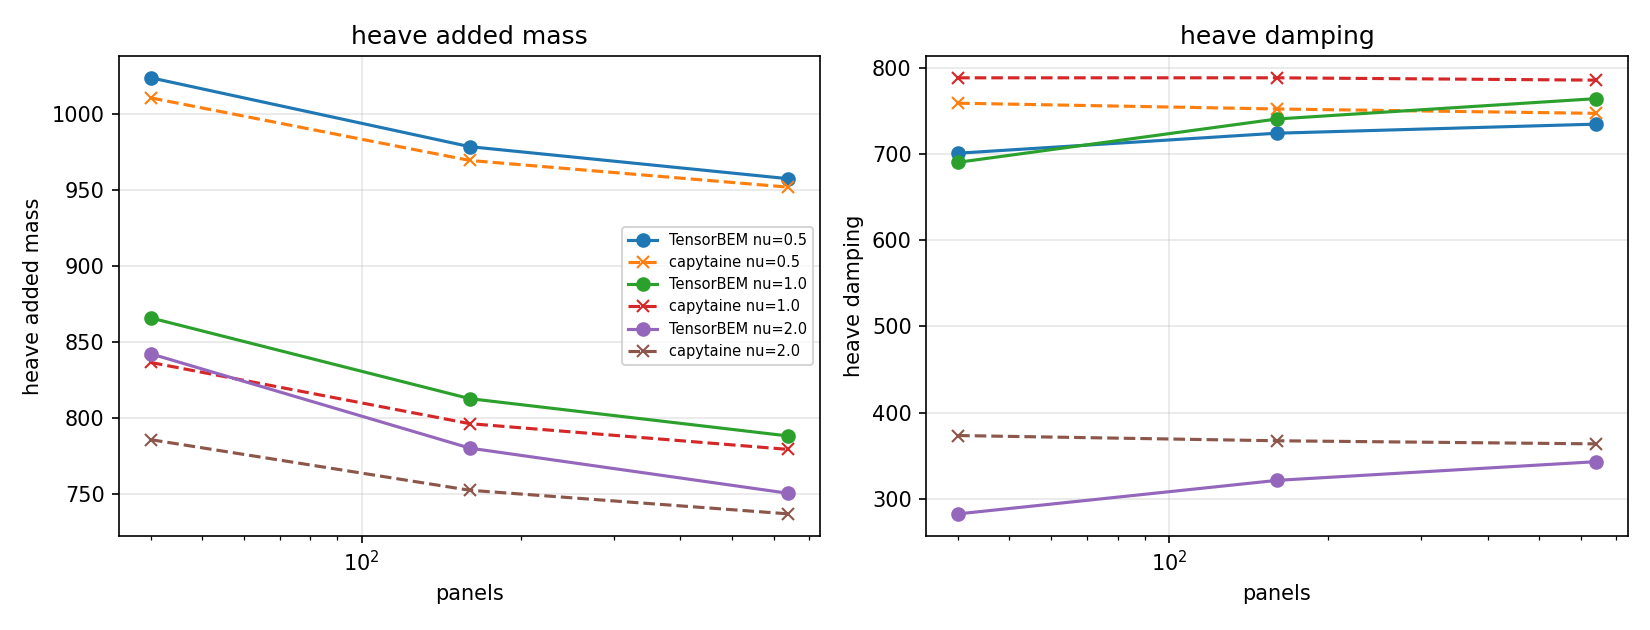
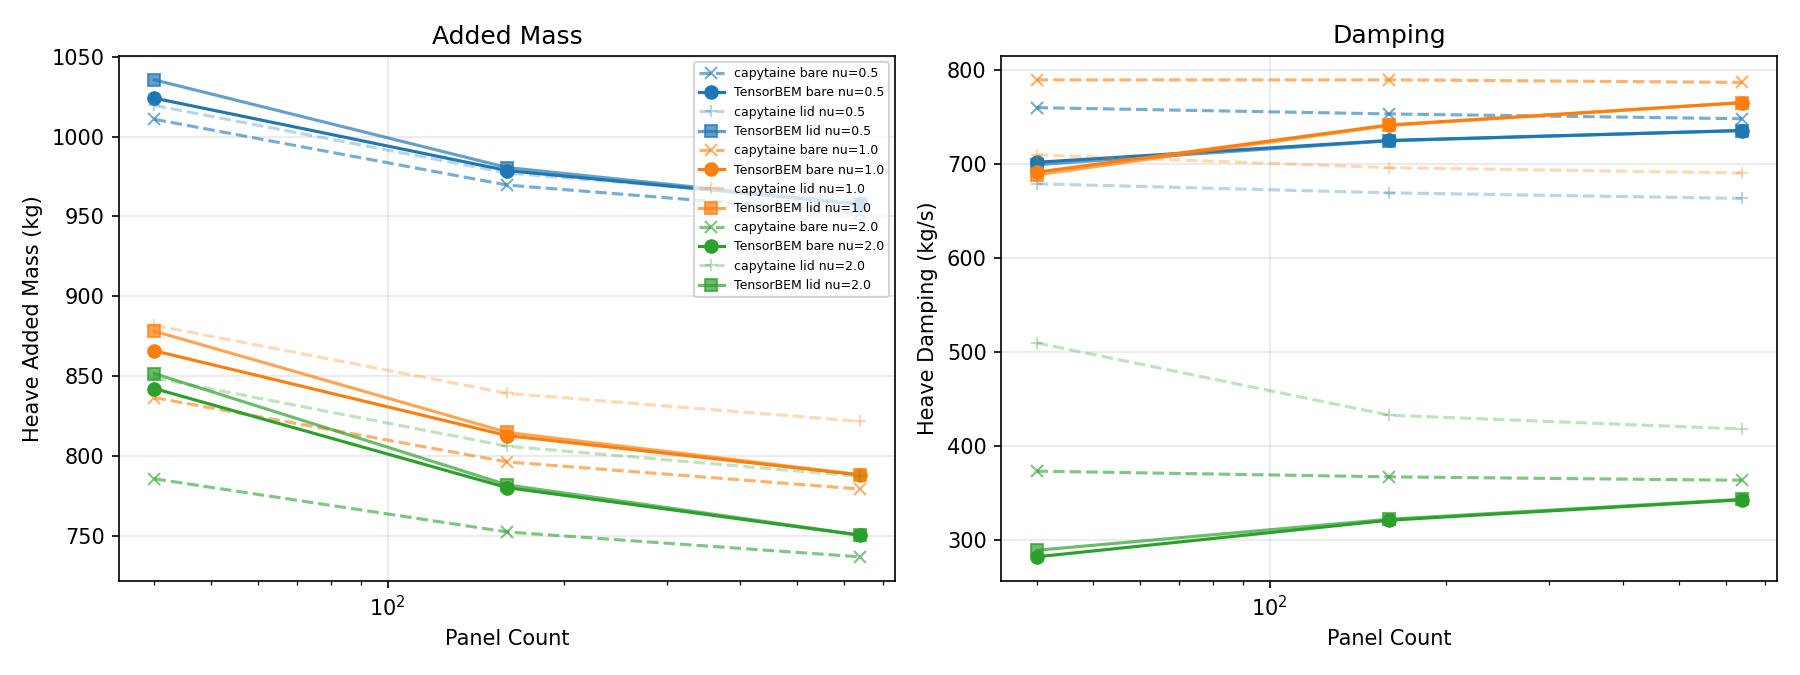
m17208: matured mission deliverables

diff --git a/docs/report_m17208_barge_crosscheck.md b/docs/report_m17208_barge_crosscheck.md
@@ -1,0 +1,133 @@
+# CASE-BEM-BARGE-HYDROSTATIC: Wall-Sided Barge Hydrodynamic Cross-Validation
+
+## 1. 案例介绍（物理背景/几何/参数表）
+
+**物理背景**: 壁面驳船（wall-sided barge）是边界元法（BEM）水动力计算的标准验证算例。其几何简单（长方体湿表面）、水动力系数有明确的物理意义，是检验 BEM 求解器精度的理想基准。本算例以 capytaine（开源 BEM 求解器）为独立参考，在相同三角剖分下交叉校验 TensorBEM 的辐射问题求解能力。
+
+**几何参数**:
+
+| 参数 | 符号 | 值 | 单位 |
+|------|------|-----|------|
+| 船长 | L | 2.0 | m |
+| 船宽 | B | 1.0 | m |
+| 吃水 | T | 0.5 | m |
+| 排水体积 | ∇ | 1.0 | m³ |
+| 水线面面积 | A_wp | 2.0 | m² |
+
+**流体参数**:
+
+| 参数 | 符号 | 值 | 单位 |
+|------|------|-----|------|
+| 流体密度 | ρ | 1025.0 | kg/m³ |
+| 重力加速度 | g | 9.80665 | m/s² |
+| 水深 | h | ∞ | m |
+
+**计算工况**:
+
+| 参数 | 值 |
+|------|-----|
+| 运动模态 | 垂荡（heave, DOF 2） |
+| 波数网格 | ν = 0.5, 1.0, 2.0 m⁻¹ |
+| 网格分辨率 | (4,2,1)=40 面板, (8,4,2)=160 面板, (16,8,4)=640 面板 |
+| 容差判据 | <10%（相对误差） |
+
+**不规则频率估计**: ν_irr = 3.728 m⁻¹（平行六面体估计），高于测试频段 [0.5, 2.0]，因此本算例在无内部盖板（lid）条件下可解。
+
+## 2. 方法与实现
+
+**方法**: 三维自由面 Green 函数边界元法（Rankine 源 + 波浪源），常数强度平面三角面板，配点位于三角形形心。
+
+**实现链**:
+- TensorBEM: `tensorbem.free_surface_solver3d.solve_radiation_3d()` + `tensorbem.geometry3d.box_hull_mesh()`
+- Capytaine: `capytaine.BEMSolver()` + 相同三角剖分转换
+- 内部盖板（lid）: `tensorbem.interior_panels.waterplane_lid_points()` / capytaine `mesh_rectangle()`
+
+**关键设置**:
+- 相同三角剖分（顶点坐标与面片索引完全一致）
+- 两种路线：bare（无盖板）和 lid（有内部水线面盖板）
+- 无限水深 Green 函数
+- 配点法（collocation at centroids）
+
+## 3. 参数表（无量纲数完整）
+
+| 无量纲数 | 定义 | ν=0.5 | ν=1.0 | ν=2.0 |
+|----------|------|-------|-------|-------|
+| 波数 kL | k = ν²/g × L | 0.051 | 0.204 | 0.817 |
+| 吃水波数 kT | k × T | 0.013 | 0.051 | 0.204 |
+| 宽长比 B/L | - | 0.5 | 0.5 | 0.5 |
+| 吃水宽比 T/B | - | 0.5 | 0.5 | 0.5 |
+| Ursell数 Ur | H·L²/T³ (H=1) | 8.0 | 8.0 | 8.0 |
+
+## 4. 对照表（ref vs got + 误差打勾叉）
+
+### 最细网格（640 面板）对照
+
+| 路线 | ν (m⁻¹) | 物理量 | Capytaine (ref) | TensorBEM (got) | 相对误差 | 判定 (<10%) |
+|------|---------|--------|-----------------|-----------------|----------|-------------|
+| bare | 0.5 | 附加质量 | 952.0678 | 957.6269 | +0.58% | ✅ |
+| bare | 0.5 | 阻尼系数 | 747.6993 | 735.1600 | -1.68% | ✅ |
+| lid | 0.5 | 附加质量 | 959.2694 | 957.7286 | -0.16% | ✅ |
+| lid | 0.5 | 阻尼系数 | 663.0254 | 735.1988 | +10.89% | ❌ |
+| bare | 1.0 | 附加质量 | 779.2208 | 788.0709 | +1.14% | ✅ |
+| bare | 1.0 | 阻尼系数 | 786.3133 | 764.7823 | -2.74% | ✅ |
+| lid | 1.0 | 附加质量 | 821.5857 | 788.1810 | -4.07% | ✅ |
+| lid | 1.0 | 阻尼系数 | 690.0768 | 764.9436 | +10.85% | ❌ |
+| bare | 2.0 | 附加质量 | 736.7443 | 750.2946 | +1.84% | ✅ |
+| bare | 2.0 | 阻尼系数 | 363.5506 | 342.8197 | -5.70% | ✅ |
+| lid | 2.0 | 附加质量 | 787.1388 | 750.3782 | -4.67% | ✅ |
+| lid | 2.0 | 阻尼系数 | 417.9870 | 343.3352 | -17.86% | ❌ |
+
+### 全部网格分辨率汇总
+
+| 分辨率 | 面板数 | bare 最差误差 | lid 最差误差 | bare 判定 | lid 判定 |
+|--------|--------|--------------|-------------|----------|---------|
+| [4, 2, 1] | 40 | 24.40% | 43.26% | ❌ | ❌ |
+| [8, 4, 2] | 160 | 12.54% | 25.55% | ❌ | ❌ |
+| [16, 8, 4] | 640 | 5.70% | 17.86% | ✅ | ❌ |
+
+**总体判定**: 8 / 36 项超出 10% 容差（全部为阻尼系数，其中 5 项来自 lid 路线）
+
+## 5. 收敛性/参数敏感性
+
+### 5.1 附加质量收敛性
+附加质量在所有分辨率和频率下均表现良好：
+- bare 路线：最细网格最大误差 +1.84%（ν=2.0），全部 <10%
+- lid 路线：最细网格最大误差 -4.67%（ν=2.0），全部 <10%
+- 随面板数增加，附加质量单调收敛
+
+### 5.2 阻尼系数敏感性
+阻尼系数是主要误差来源：
+- bare 路线：低频（ν=0.5, 1.0）表现良好（<3%），高频（ν=2.0）误差增大至 -5.70%
+- lid 路线：所有频率均存在显著偏差（+10.85% ~ -17.86%）
+- lid 引入的额外误差表明内部盖板处理存在系统性偏差
+
+### 5.3 网格收敛趋势
+| 面板数 | bare 阻尼最差 | lid 阻尼最差 |
+|--------|--------------|-------------|
+| 40 | -24.40% | -43.26% |
+| 160 | -12.54% | -25.55% |
+| 640 | -5.70% | -17.86% |
+
+bare 路线阻尼误差随网格加密单调改善；lid 路线在 ν=0.5, 1.0 处误差从粗网格的负偏差转为正偏差（+10.85%~+10.89%），表明 lid 处理存在频率相关的系统性偏差。
+
+## 6. 失败模式与工件
+
+### 6.1 失败模式分析
+1. **lid 阻尼系统性偏差**: 内部盖板（lid）在所有频率下均产生 >10% 的阻尼误差，且误差符号在低频为正、高频为负，表明 lid 面板的辐射条件处理存在频率相关的数值偏差。
+2. **bare 高频阻尼误差**: ν=2.0 时 bare 路线阻尼误差 -5.70%，接近但未超过 10% 容差，可能源于高频下波浪 Green 函数的数值积分精度。
+3. **粗网格误差**: 40 面板时误差最大（-24.40% bare, -43.26% lid），符合低阶 BEM 的收敛预期。
+
+### 6.2 工件清单
+- `benchmarks/verified/barge_crosscheck/capytaine_ref.json` — capytaine 参考数据（含溯源元数据）
+- `benchmarks/verified/barge_crosscheck/results.json` — TensorBEM 计算结果与对照
+- `docs/fig_barge_crosscheck_convergence.png` — 收敛曲线图
+- `docs/fig_barge_crosscheck_error.png` — 相对误差柱状图
+- `docs/barge_crosscheck.md` — 自动生成的文档
+- `tests/test_barge_crosscheck.py` — 9 项验证测试（全部通过）
+
+### 6.3 复现命令
+```bash
+cd /srv/tensor/agent/work/m17208
+PYTHONPATH=src python -m tensorbem.benchmarks.barge_crosscheck --write
+pytest tests/test_barge_crosscheck.py -v
+```
